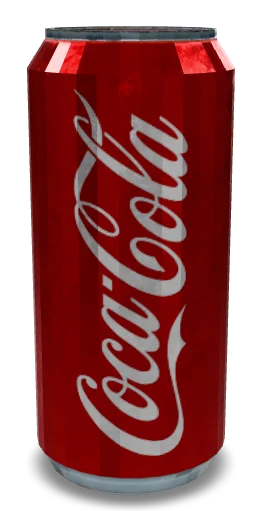
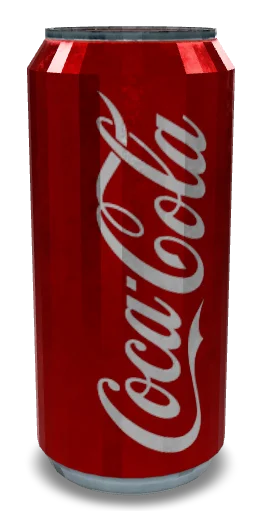
coke

diff --git a/coke/index.html b/coke/index.html
@@ -9,7 +9,7 @@
   </head>
   <body>
     <!-- <model-viewer> HTML element -->
-    <model-viewer src="crumpled_coke_cansc.glb" ar ar-modes="webxr scene-viewer quick-look" camera-controls tone-mapping="commerce" poster="poster.webp" shadow-intensity="1">
+    <model-viewer src="crumpled_coke_cansc.glb" ar ar-modes="webxr scene-viewer quick-look" camera-controls tone-mapping="commerce" poster="poster.webp" shadow-intensity="1" auto-rotate>
       <div class="progress-bar hide" slot="progress-bar">
           <div class="update-bar"></div>
       </div>
